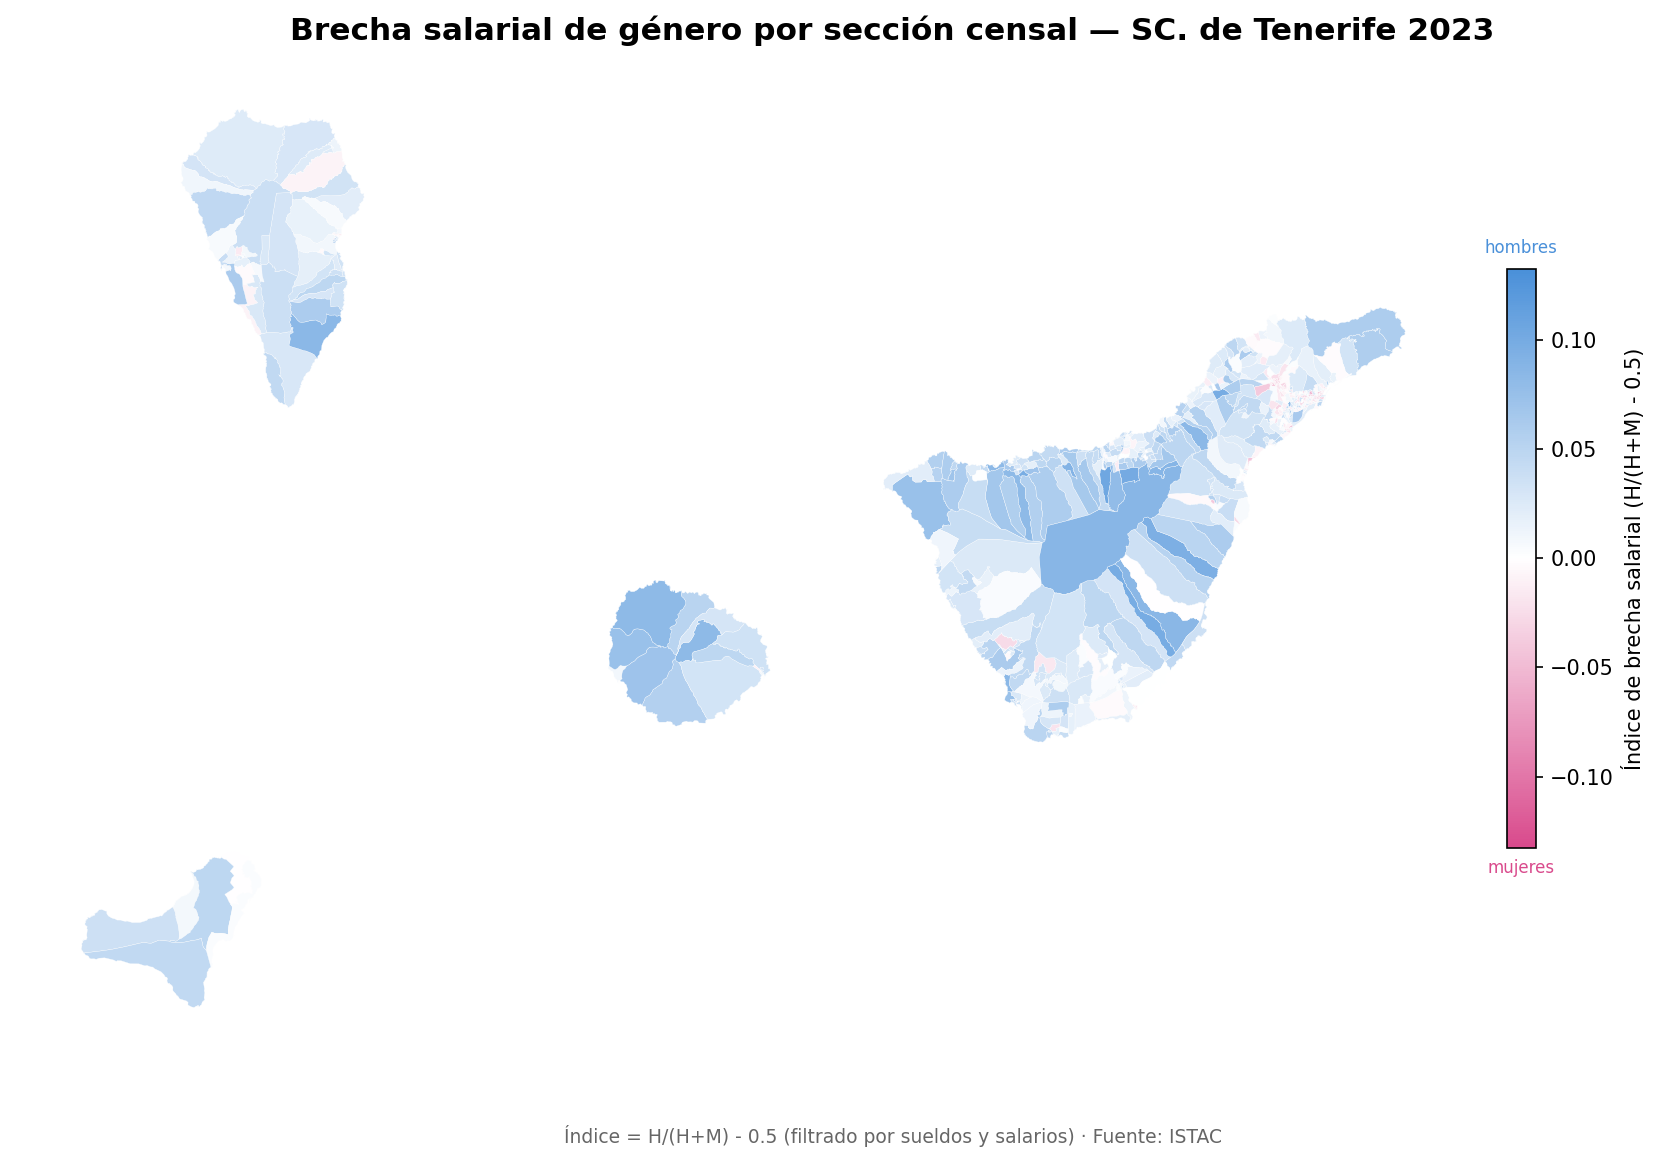
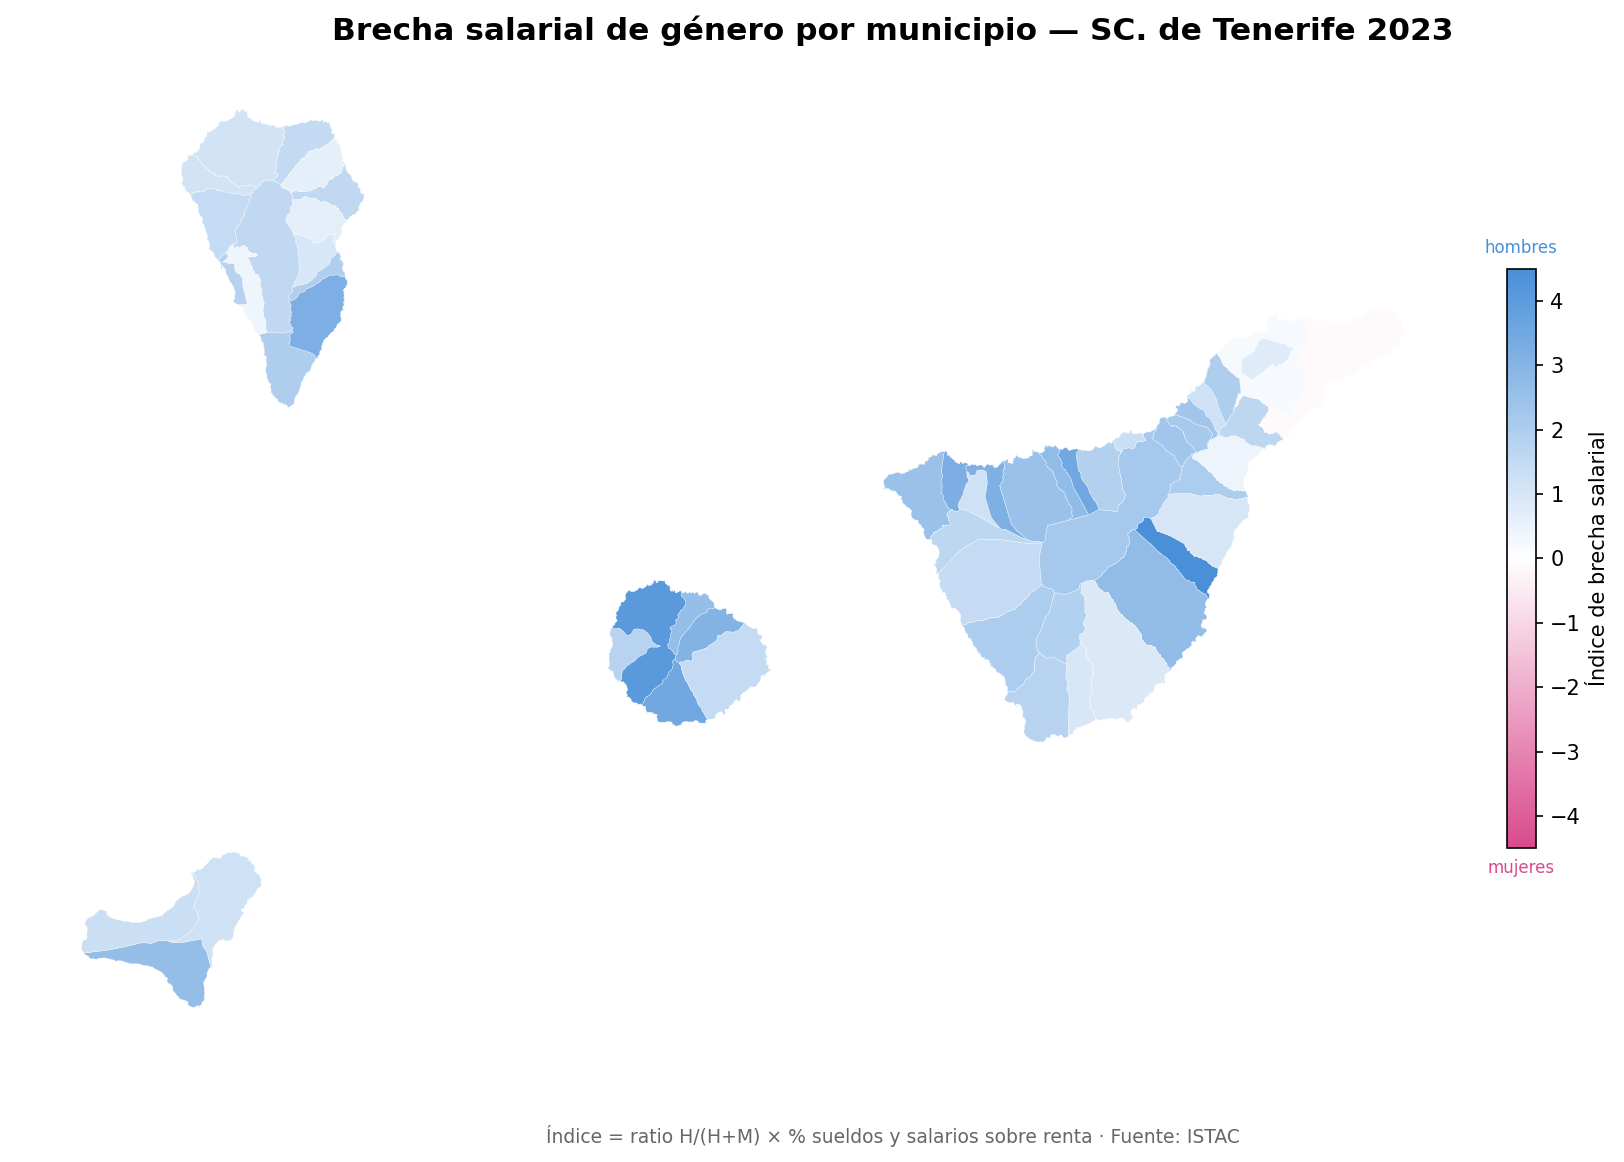
-

diff --git a/assets_proyecto5/plots_assets.py b/assets_proyecto5/plots_assets.py
@@ -224,7 +224,7 @@ def _calcular_indice_brecha(ocu: pd.DataFrame,
     )
 
     merged = ocu_hm.merge(sal, on=["municipio", "año"], how="inner")
-    merged["indice_brecha"] = merged["ratio_hm"] - 0.5
+    merged["indice_brecha"] = (merged["ratio_hm"] - 0.5) * merged["pct_salarios"]
     return merged
 
 
@@ -247,7 +247,7 @@ def _calcular_indice_brecha_seccion(ocu: pd.DataFrame,
     )
 
     merged = ocu_hm.merge(sal, on=["seccion_key", "año"], how="inner")
-    merged["indice_brecha"] = merged["ratio_hm"] - 0.5
+    merged["indice_brecha"] = (merged["ratio_hm"] - 0.5) * merged["pct_salarios"]
     return merged
 
 
@@ -598,7 +598,7 @@ def plot_mapa_brecha_salarial(context: AssetExecutionContext) -> None:
     sm = ScalarMappable(cmap=cmap_mapa, norm=norm)
     sm.set_array([])
     cbar = fig.colorbar(sm, ax=ax, orientation="vertical", shrink=0.55, pad=0.02)
-    cbar.set_label(f"{info_cat['leyenda']} (H/(H+M) - 0.5)", fontsize=10)
+    cbar.set_label(info_cat["leyenda"], fontsize=10)
     cbar.ax.text(0.5, -0.02, "mujeres", transform=cbar.ax.transAxes,
                  ha="center", va="top", fontsize=8, color="#D94A8C")
     cbar.ax.text(0.5, 1.02, "hombres", transform=cbar.ax.transAxes,
@@ -610,7 +610,7 @@ def plot_mapa_brecha_salarial(context: AssetExecutionContext) -> None:
         fontsize=15, fontweight="bold", y=0.95)
     fig.text(
         0.5, 0.01,
-        f"Índice = H/(H+M) - 0.5 (filtrado por {info_cat['desc']}) · Fuente: ISTAC",
+        f"Índice = ratio H/(H+M) × % {info_cat['desc']} sobre renta · Fuente: ISTAC",
         ha="center", fontsize=9, color="#666666",
         transform=fig.transFigure)
     fig.tight_layout(rect=[0, 0.04, 1, 1])

diff --git a/assets_proyecto5/checks_p5.py b/assets_proyecto5/checks_p5.py
@@ -186,7 +186,7 @@ def _indice_brecha(cfg: dict) -> pd.DataFrame:
         .reset_index()
     )
     merged = ocu_hm.merge(sal, on=["municipio", "año"])
-    merged["indice"] = merged["ratio_hm"] - 0.5
+    merged["indice"] = (merged["ratio_hm"] - 0.5) * merged["OBS_VALUE"]
     return merged
 
 
